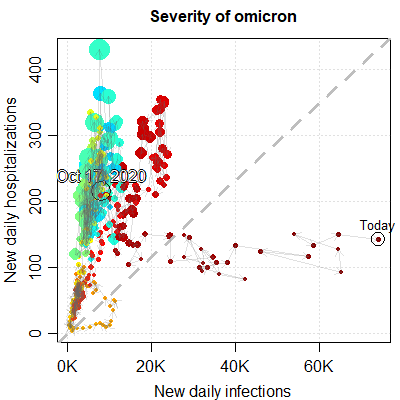
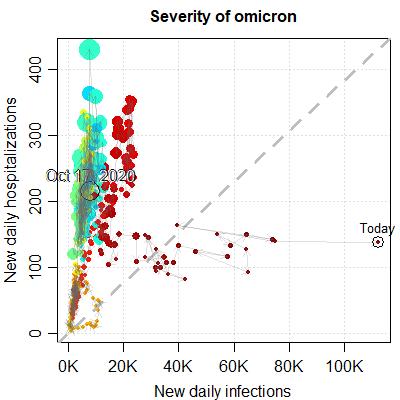
Jan 31, 2022

diff --git a/README.md b/README.md
@@ -1,6 +1,6 @@
 # COVID-19 in the Netherlands
 _Author: Jay Lee_  
-<i>Last update: Fri, Jan 28, 2022  3:23:33 PM</i>
+<i>Last update: Mon, Jan 31, 2022  3:28:51 PM</i>
 
 Table of Contents
 =================
@@ -34,6 +34,7 @@ Table of Contents
       * [Hospitalization risk by age](#hospitalization-risk-by-age)
    * [Code](#code)
 
+header-includes: <link rel="icon" href="file:///C:/Users/60140jle/DROPBO~1/usr/proj/logos/cv.logo.png">  
   
   
   
@@ -67,7 +68,7 @@ Table of Contents
   
 # Netherlands  
 ## National trend  
-* [012822:] Latest new cases = 74019 (RIVMc), 74085 (RIVMn) &rarr; +9483 (since yesterday)   
+* [013122:] Latest new cases = 112227 (RIVMc), 112278 (RIVMn) &rarr; +37079 (since yesterday)   
 * <ins>Caveats:</ins>  
   - [011422:] It looks pretty clear -- given the lowering hospitalizations despite massive increase in infections -- that omicron is indeed less severe.  
     + Hence, one might want to focus on hospitalization numbers (to determine how much one should be alarmed or not on a given day 😉); see [analysis below](#hospital-occupancy-trends).  
